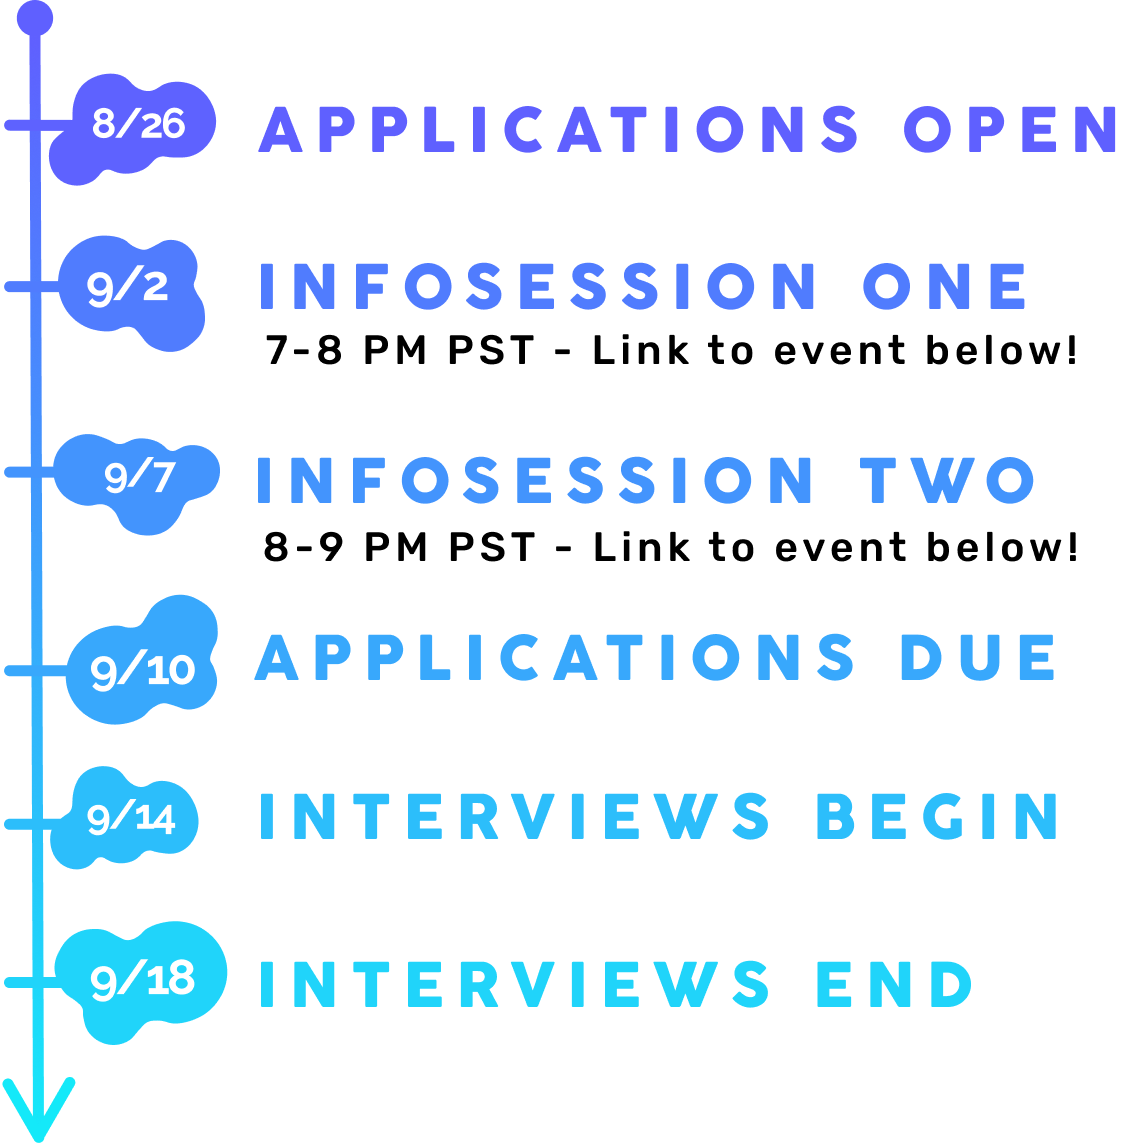
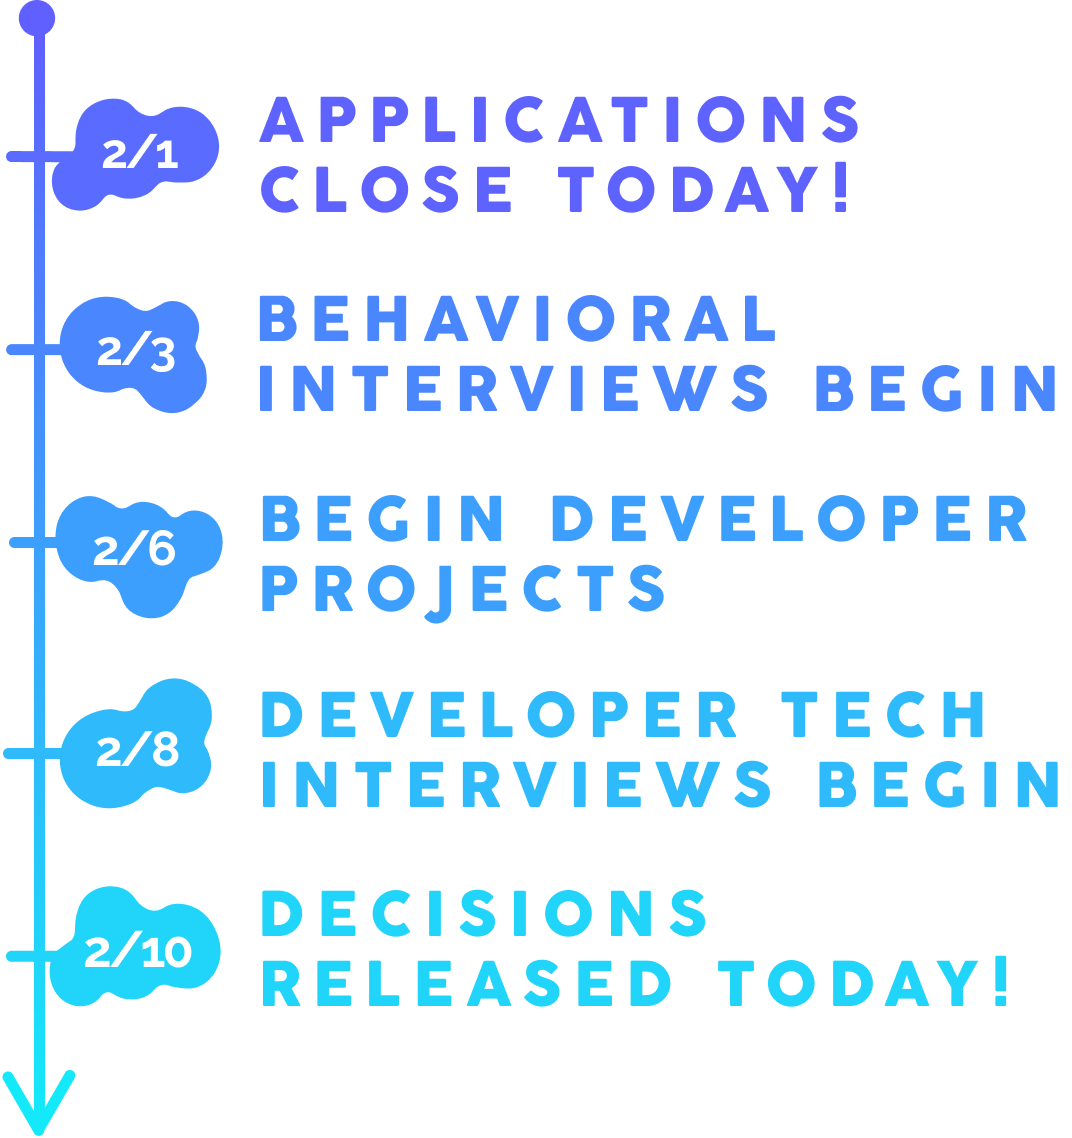
rec timeline added

Changed region(s): [[0.0, 0.0, 1.0, 1.0]]

diff --git a/src/pages/Apply.js b/src/pages/Apply.js
@@ -4,8 +4,8 @@ import { SiteNavbar, Footer } from '../components';
 import Container from 'react-bootstrap/Container';
 import Button from 'react-bootstrap/Button';
 
-// import Timeline from '../img/apply/timeline.png';
-// import MobileTimeline from '../img/apply/mobile-timeline.png';
+import Timeline from '../img/apply/timeline.png';
+import MobileTimeline from '../img/apply/mobile-timeline.png';
 
 import './css/Apply.scss';
 
@@ -20,7 +20,7 @@ const Apply = () => {
 						Interested in joining a group of passionate developers, designers,
 						entreprenuers as either a student, designer, or developer? If so,
 						you're in the right place! <br/><br/>Our Sping 2021 applications are open and
-						due Febraury 1st by midnight pacific time, so make sure to apply
+						due February 1st by midnight pacific time, so make sure to apply
 						below!
 					</p>
 
@@ -68,6 +68,8 @@ const Apply = () => {
 								</Button>
 							</div>
 						</div>
+						<img src={Timeline} className="timeline" alt="timeline"/>
+						<img src={MobileTimeline} className="mobile-timeline" alt="timeline"/>
 						<p className="open-role-title">Here are our open roles:</p>
 						<div className="open-roles">
 							<div className="type-col">

diff --git a/src/pages/css/Apply.scss b/src/pages/css/Apply.scss
@@ -12,11 +12,13 @@
 		width: 80%;
 	}
 
-	.recruitment-timeline {
-		width: 100%;
-		margin: 0;
+	.timeline {
+		width: 80%;
+		margin: 6vw 2vw 0 2vw;
 	}
-
+	.mobile-timeline {
+		display: none;
+	}
 	.recruitment-timeline-mobile {
 		width: 100%;
 		margin: 0;
@@ -79,7 +81,7 @@
 			letter-spacing: 0.12em;
 			text-transform: uppercase;
 			color: #5f60ff;
-			margin-top: 6vw;
+			margin-top: 3vw;
 			margin-bottom: 2vw;
 		}
 		.learn-button {
@@ -225,7 +227,14 @@
 		.subtitle {
 			font-size: 2.5vw;
 		}
-
+		.mobile-timeline {
+			width: 80%;
+			display: inline;
+			margin: 6vw 2vw 0 2vw;
+		}
+		.timeline {
+			display: none;
+		}
 		.recruitment-info {
 			margin-top: 3%;
 
@@ -234,11 +243,12 @@
 				margin-bottom: 2.5%;
 			}
 			.button-row {
+				flex-direction: column;
 				.button-text {
 					font-size: 2vw;
 				}
 				.form-button {
-					margin: 0px 2vw;
+					margin: 0px auto 2vw auto;
 					height: 6vw;
 					width: 27vw;
 					border-radius: 40vw;
